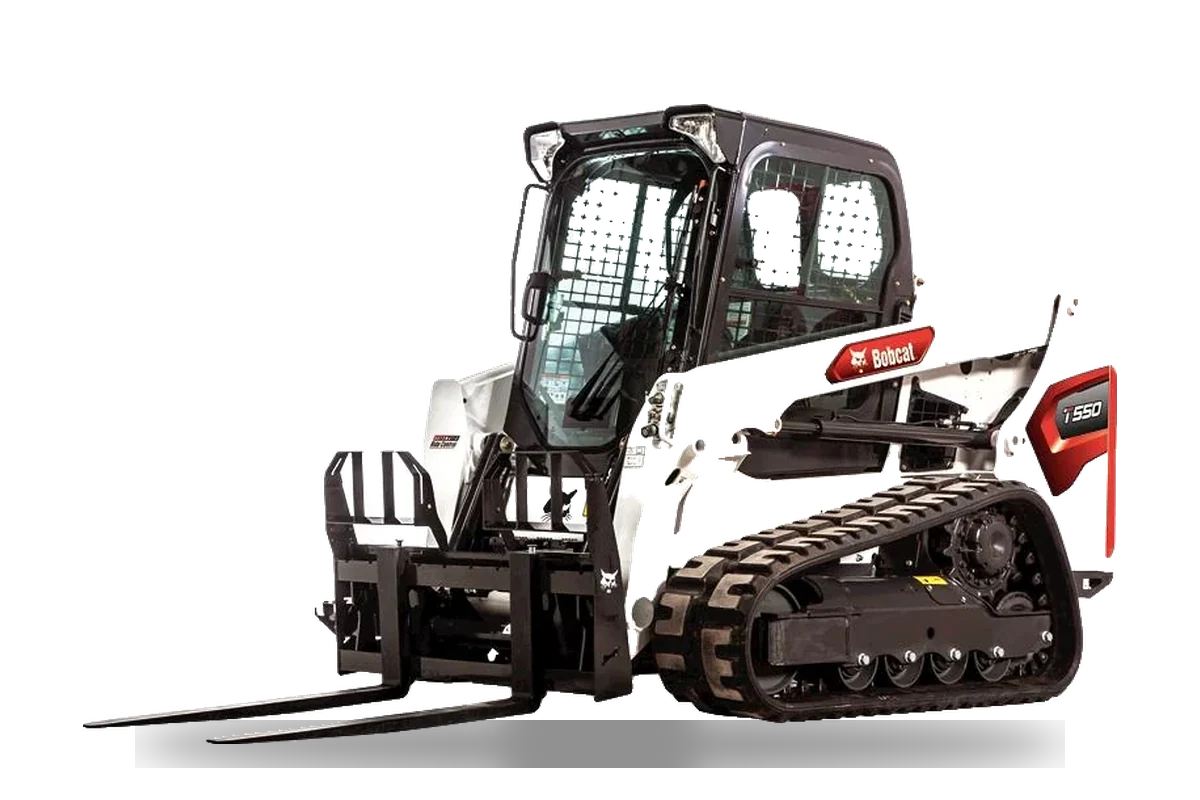
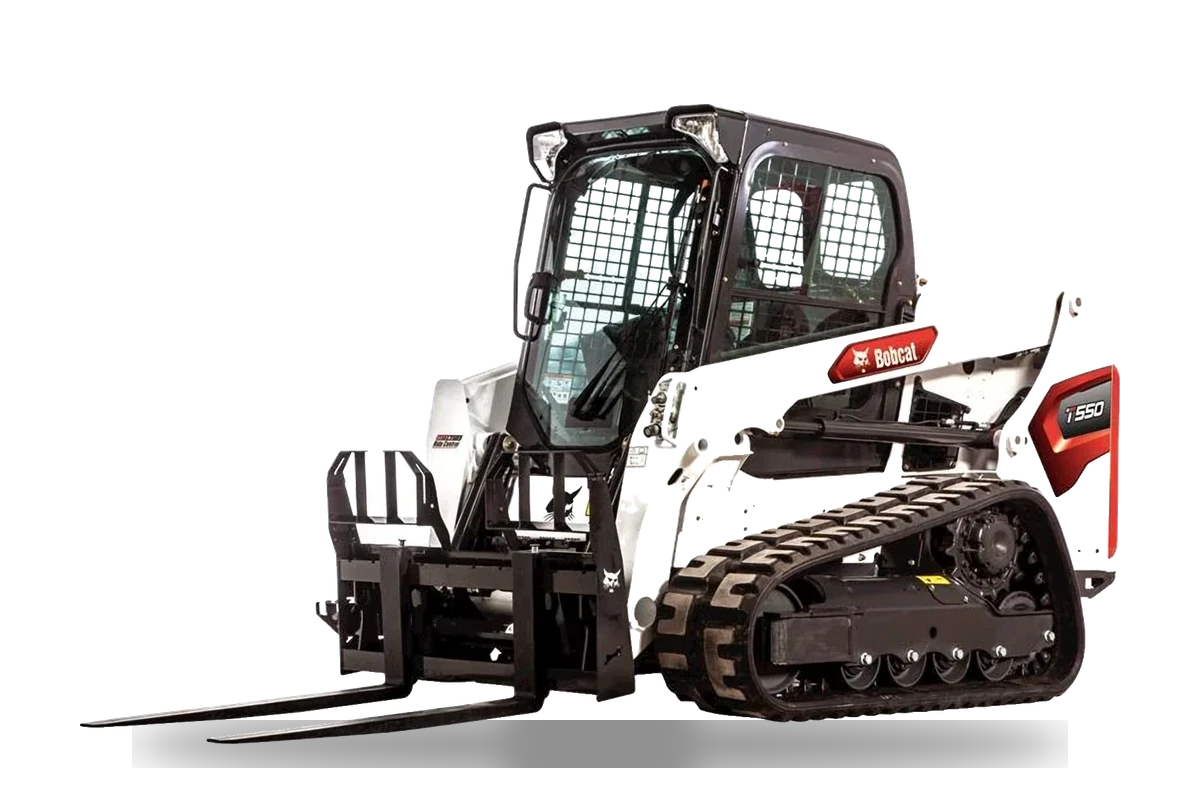
Чіткіші фото та видима техніка на першому екрані Bobcat
- Фото клієнта збільшено нейромережею (EDSR x2) і злегка підрізкнено:
  перші екрани, банери 244, гаряча пропозиція Bobcat
- Новий режим hero.fit=side: на десктопі фото займає праву частину без
  розтягування і плавно переходить у темний фон (Bobcat), на мобільному як раніше

diff --git a/shared/src/components/sections/Hero.tsx b/shared/src/components/sections/Hero.tsx
@@ -4,7 +4,7 @@ import { withBase } from "../../base-path";
 import type { SiteConfig } from "../../types";
 import { MachineArt } from "../MachineArt";
 import { CountUp } from "../Motion";
-import { Bullet, telHref } from "../ui";
+import { Bullet, cx, telHref } from "../ui";
 
 const STAT_ICONS = {
   machines: withBase("/images/icons/stat-machines.png"),
@@ -13,10 +13,24 @@ const STAT_ICONS = {
 
 function Backdrop({ c, priority }: { c: SiteConfig; priority?: boolean }) {
   const h = c.hero;
+  const side = h.fit === "side";
   return (
     <>
+      {h.image && side && (
+        // м'яке світіння в кольорі бренду за технікою (десктоп)
+        <div className="absolute inset-0 hidden bg-[radial-gradient(ellipse_55%_70%_at_72%_55%,color-mix(in_srgb,var(--color-brand)_22%,transparent),transparent_70%)] lg:block" />
+      )}
       {h.image ? (
-        <Image src={h.image} alt="" fill priority={priority} sizes="100vw" className="object-cover object-[60%_center]" />
+        <div className={cx("absolute inset-0", side && "lg:left-auto lg:w-[62%] lg:[mask-image:linear-gradient(90deg,transparent_0%,#000_38%)]")}>
+          <Image
+            src={h.image}
+            alt=""
+            fill
+            priority={priority}
+            sizes={side ? "(min-width: 1024px) 62vw, 100vw" : "100vw"}
+            className={cx("object-cover", side ? "object-[60%_center] lg:object-[50%_60%]" : "object-[60%_center]")}
+          />
+        </div>
       ) : (
         <MachineArt kind={h.art} className="absolute bottom-0 right-0 h-[80%] w-auto opacity-60" />
       )}

diff --git a/shared/src/types.ts b/shared/src/types.ts
@@ -113,6 +113,12 @@ export interface SiteConfig {
   sections?: { rental?: boolean; faq?: boolean };
   hero: {
     image?: string;
+    /**
+     * cover — фото на весь екран (за замовчуванням).
+     * side — на десктопі фото займає праву частину без розтягування і плавно переходить у темний фон
+     * (для квадратних/невеликих фото, щоб техніку було видно повністю і чітко). На мобільному — як cover.
+     */
+    fit?: "cover" | "side";
     /** Додаткове затемнення фото (0–1), якщо фото світле і текст погано читається */
     dim?: number;
     /**

diff --git a/bobcat/src/site.config.ts b/bobcat/src/site.config.ts
@@ -68,6 +68,7 @@ export const site: SiteConfig = {
   sections: { rental: false, faq: false },
   hero: {
     image: "/images/hero.webp",
+    fit: "side",
     art: "skid-steer",
     stats: [
       { icon: "machines", value: "35+", label: "одиниць техніки в наявності" },
